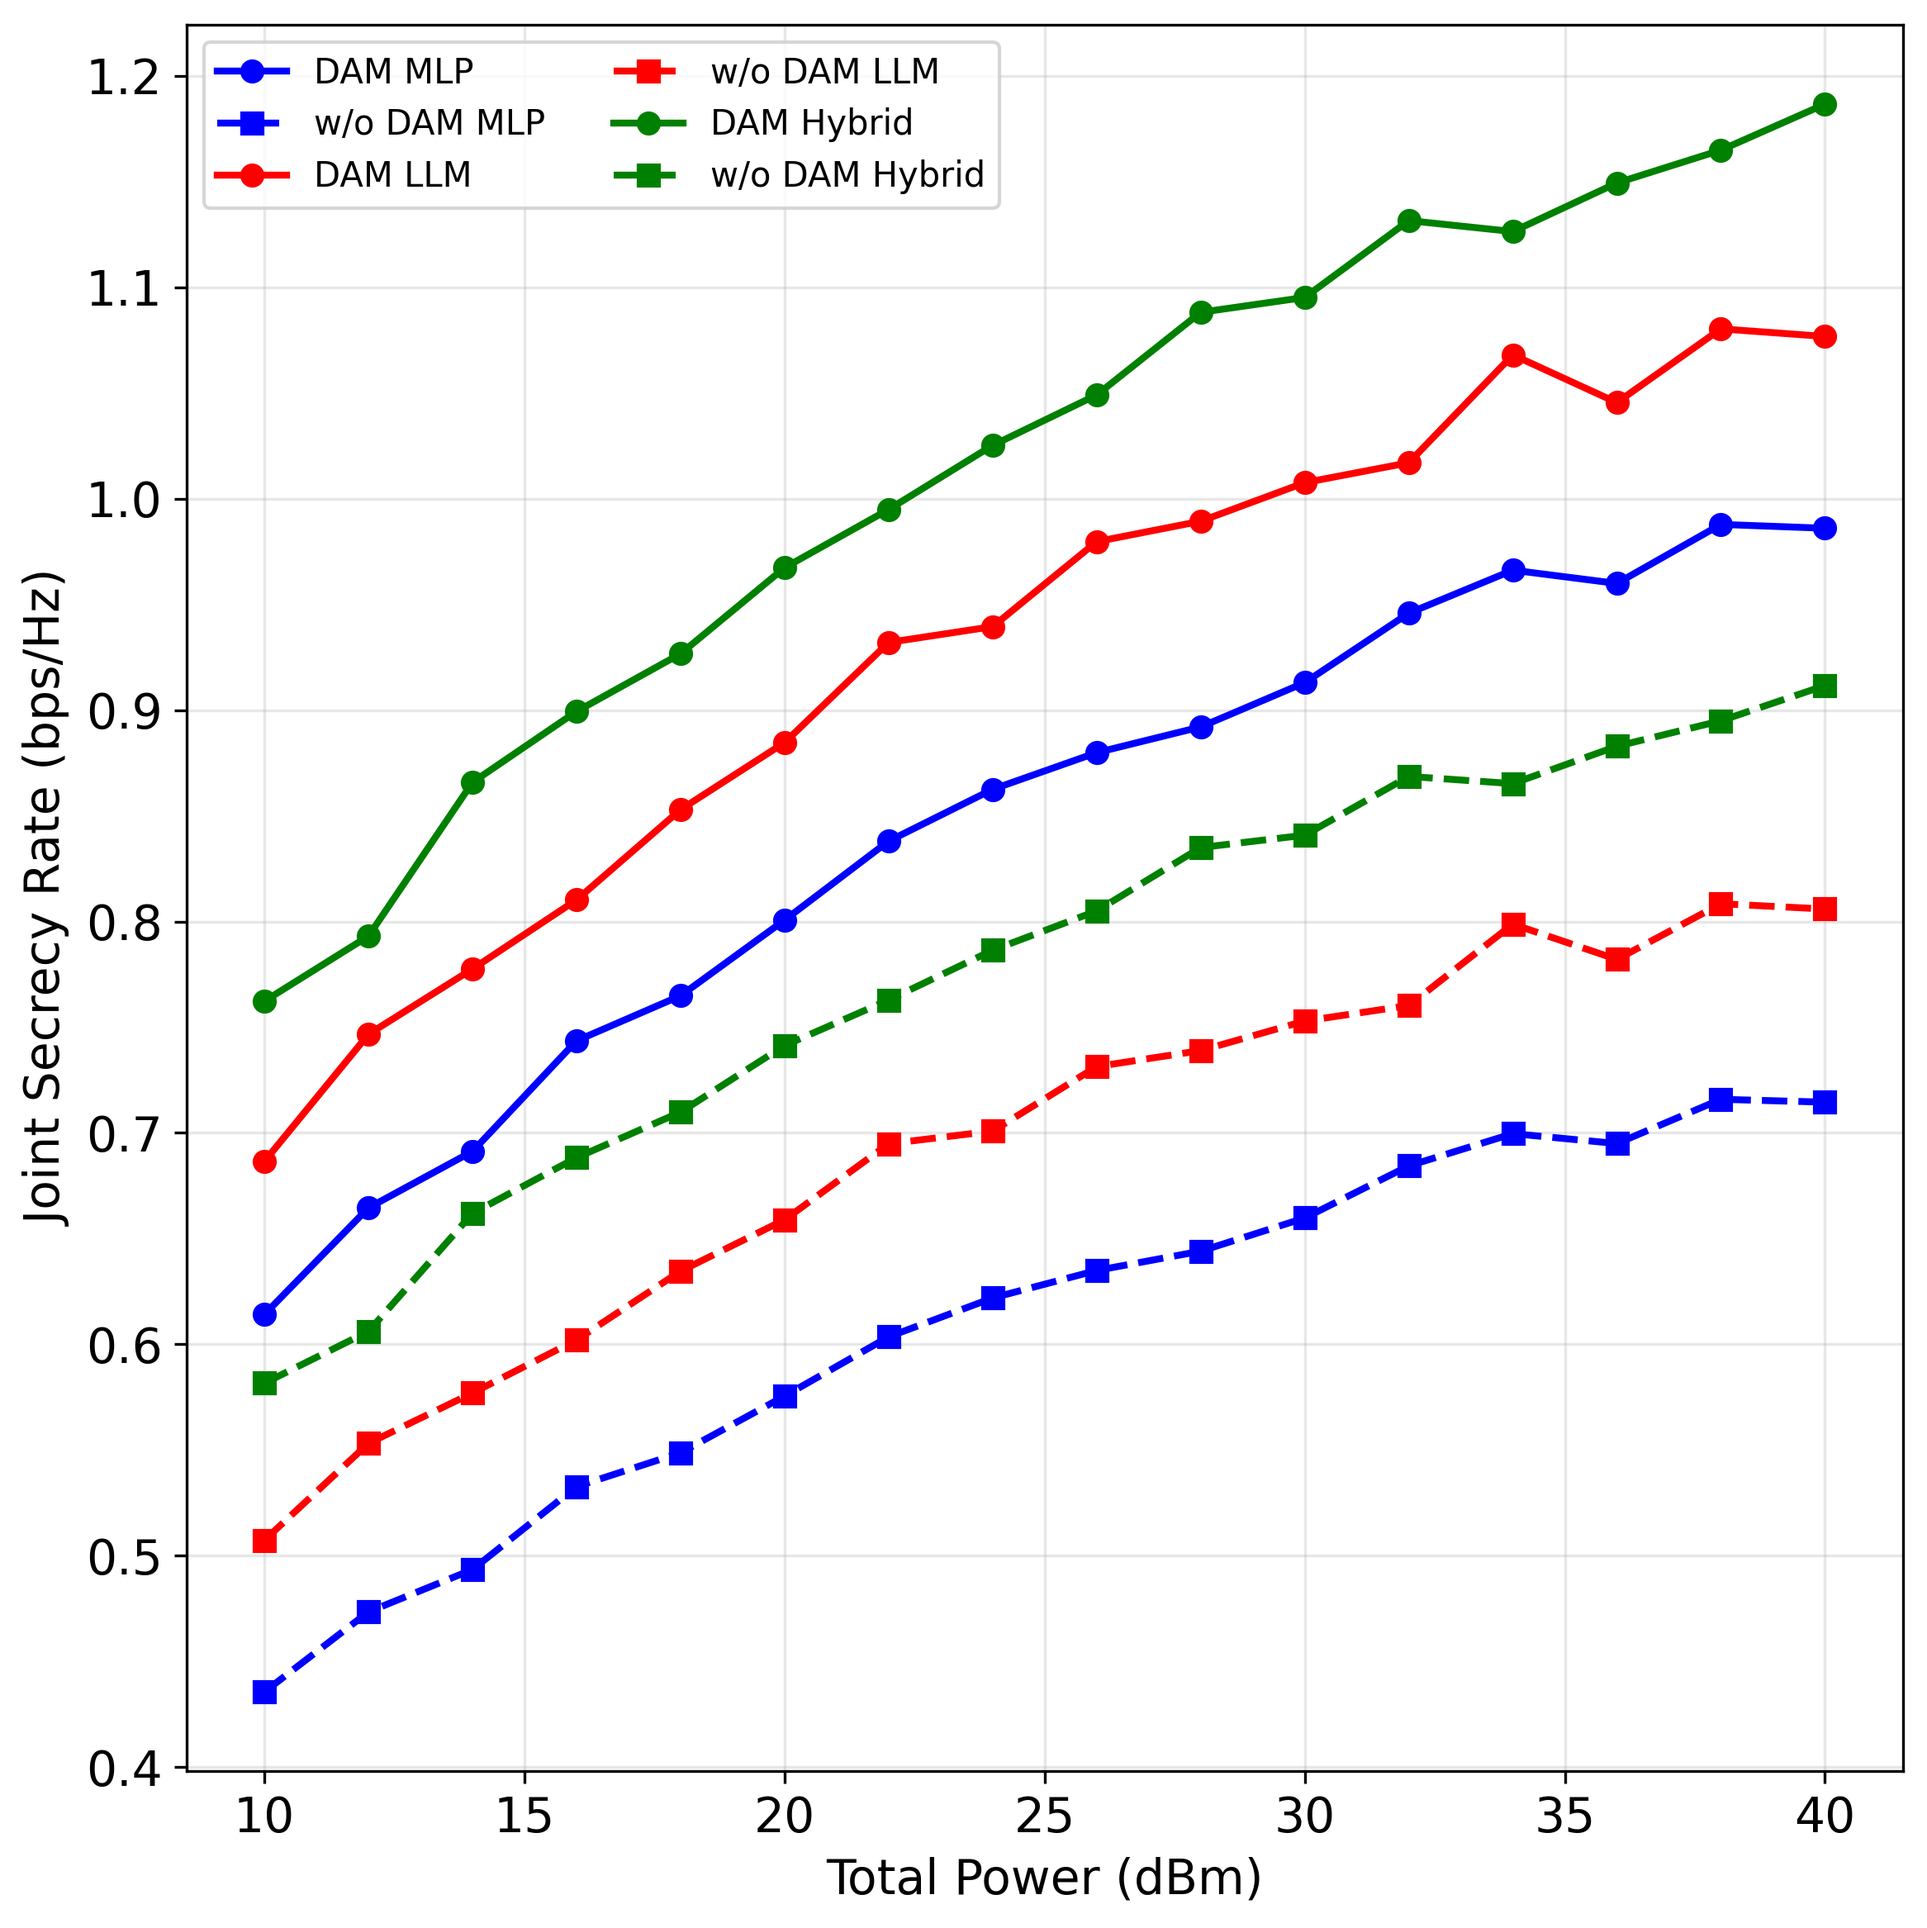
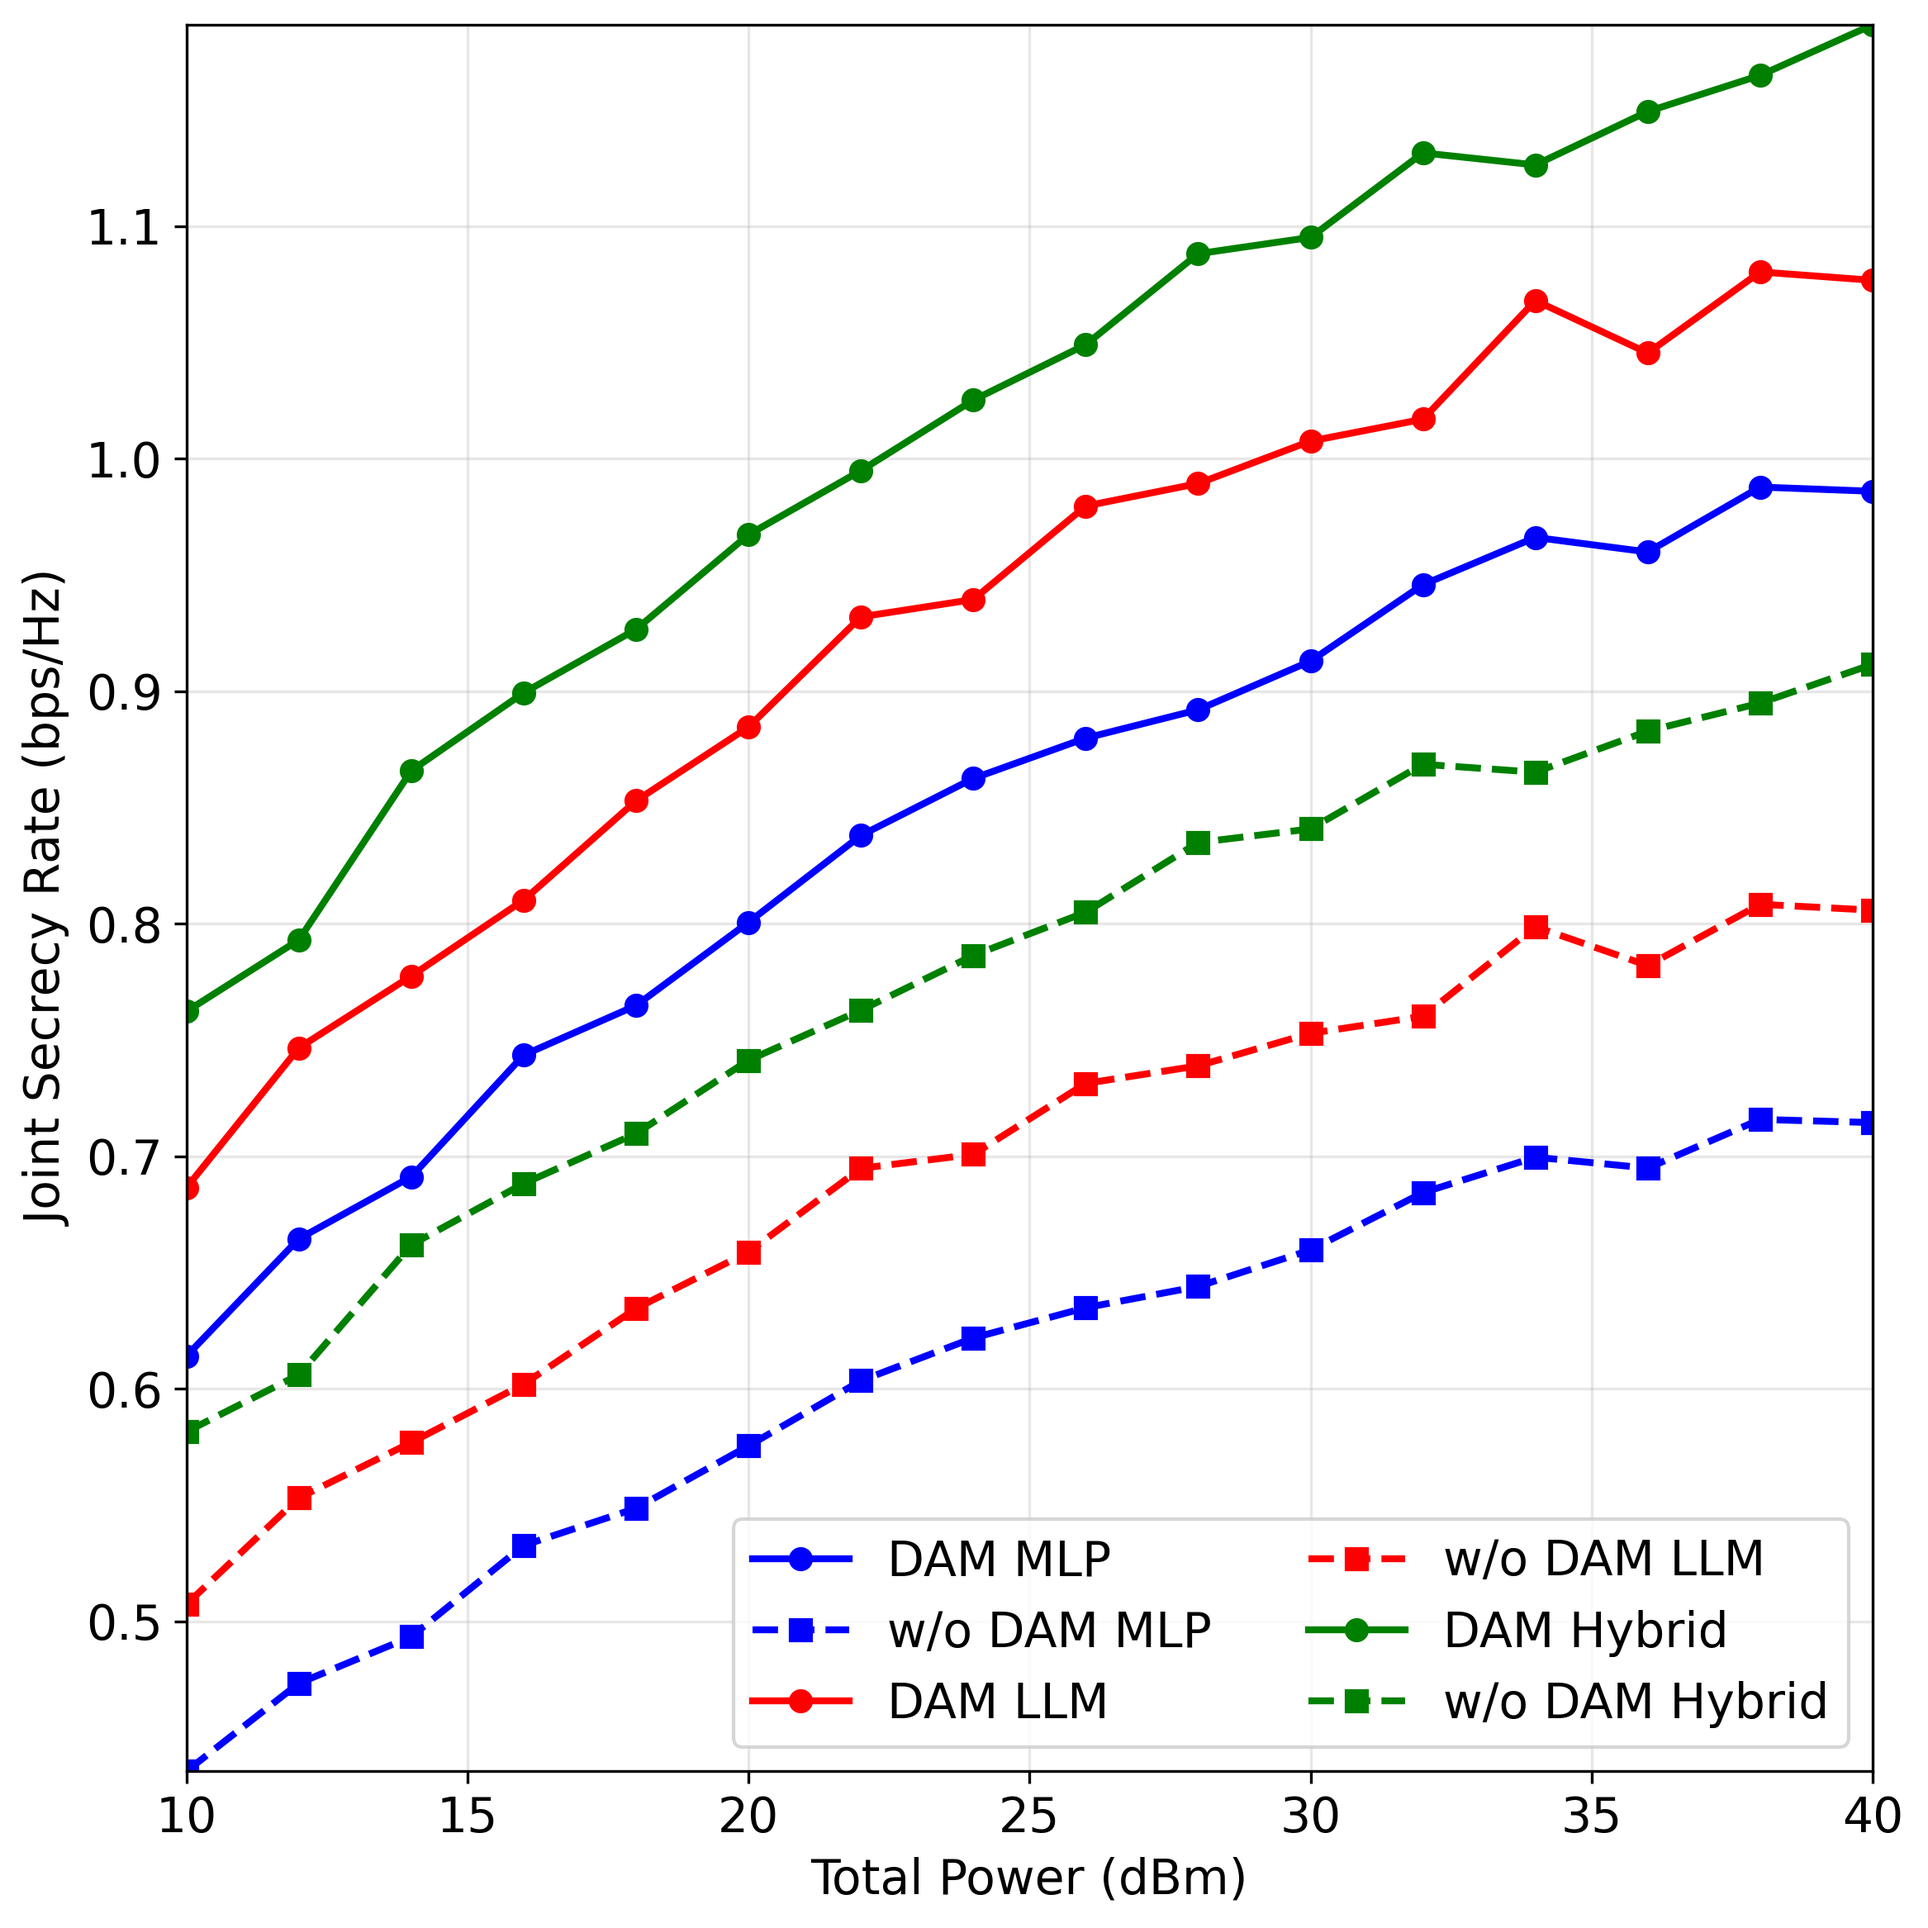
Plot styling: legends 14pt, axes flush (no padding), dual-axis sync no pad, square figs, rebuilt all figures

diff --git a/comprehensive_plots.py b/comprehensive_plots.py
@@ -87,16 +87,14 @@ def _set_stretched_ylim(ax, arrays, pad=0.05):
     ax.set_ylim(vmin - pad * rng, vmax + pad * rng)
 
 # New helper: synchronize dual y-axes to identical ranges
-def _sync_dual_ylim(ax_left, ax_right, arrays_left, arrays_right, pad=0.05):
+def _sync_dual_ylim(ax_left, ax_right, arrays_left, arrays_right, pad=0.0):  # pad default 0 for no gap
     vals = np.concatenate([np.asarray(a).ravel() for a in arrays_left + arrays_right if a is not None])
     vmin, vmax = np.min(vals), np.max(vals)
     if vmax <= vmin:
         return
-    rng = vmax - vmin
-    lo, hi = vmin - pad * rng, vmax + pad * rng
-    ax_left.set_ylim(lo, hi)
-    ax_right.set_ylim(lo, hi)
-    # Optional: align major ticks count
+    # No extra padding to satisfy "touch axes" requirement
+    ax_left.set_ylim(vmin, vmax)
+    ax_right.set_ylim(vmin, vmax)
     try:
         import matplotlib.ticker as mticker
         locator = mticker.MaxNLocator(nbins=6)
@@ -145,6 +143,13 @@ def plot_convergence_antennas_power():
     # Force exact x-axis limits - no padding
     ax = plt.gca()
     ax.set_xlim(ax.get_xlim()[0], ax.get_xlim()[1])
+    
+    # After plotting (Figure 1) enforce y limits flush
+    y_arrays = [mlp_dam, mlp_no_dam, llm_dam, llm_no_dam, hybrid_dam, hybrid_no_dam]
+    y_min = min(a.min() for a in y_arrays)
+    y_max = max(a.max() for a in y_arrays)
+    ax.set_ylim(y_min, y_max)
+    ax.margins(x=0, y=0)
     
     plt.tight_layout()
     plt.savefig(f"{plots_dir}/fig1_convergence_antennas_power.png", dpi=300, bbox_inches='tight')
@@ -207,24 +212,29 @@ def plot_rewards_vs_vus():
     ax_left.spines['left'].set_color(color_w0_axis)
     ax_right.spines['right'].set_color(color_w1_axis)
 
-    # Sync y-axes and declutter
+    # Sync y-axes and declutter (no padding)
     _sync_dual_ylim(
         ax_left,
         ax_right,
         [sensing['MLP'], sensing['LLM'], sensing['Hybrid']],
         [comm['MLP'], comm['LLM'], comm['Hybrid']],
-        pad=0.05,
+        pad=0.0,
     )
-    ax_left.set_xlim(vu_range[0], vu_range[-1])
 
-    ax_left.grid(True, alpha=0.3)
-    ax_left.spines['top'].set_visible(True)
-    ax_right.spines['top'].set_visible(True)
+    # Determine true x-span including offsets so lines touch axes
+    all_x = []
+    for alg in ['MLP', 'LLM', 'Hybrid']:
+        all_x.append((vu_range + offsets[alg])[0])
+        all_x.append((vu_range + offsets[alg])[-1])
+    x_min, x_max = min(all_x), max(all_x)
+    ax_left.set_xlim(x_min, x_max)
+    ax_left.margins(x=0, y=0)
+    ax_right.margins(x=0, y=0)
 
-    # Legend
+    # Legend fontsize 14
     lines_l, labels_l = ax_left.get_legend_handles_labels()
     lines_r, labels_r = ax_right.get_legend_handles_labels()
-    ax_left.legend(lines_l + lines_r, labels_l + labels_r, loc='upper right', fontsize=10, ncol=2)
+    ax_left.legend(lines_l + lines_r, labels_l + labels_r, loc='upper right', fontsize=14, ncol=2)
 
     # Force exact x-axis limits - no padding
     ax = plt.gca()
@@ -329,22 +339,21 @@ def plot_rewards_vs_targets():
         ax_right,
         [sensing['MLP'], sensing['LLM'], sensing['Hybrid']],
         [comm['MLP'], comm['LLM'], comm['Hybrid']],
-        pad=0.05,
+        pad=0.0,
     )
-    ax_left.set_xlim(targets[0], targets[-1])
+    all_x_t = []
+    for alg in ['MLP', 'LLM', 'Hybrid']:
+        all_x_t.append((targets + offsets[alg])[0])
+        all_x_t.append((targets + offsets[alg])[-1])
+    x_min_t, x_max_t = min(all_x_t), max(all_x_t)
+    ax_left.set_xlim(x_min_t, x_max_t)
+    ax_left.margins(x=0, y=0)
+    ax_right.margins(x=0, y=0)
 
-    ax_left.grid(True, alpha=0.3)
-    
-    # MATLAB-style appearance
-    ax_left.spines['top'].set_visible(True)
-    ax_left.spines['right'].set_visible(True)
-    ax_right.spines['top'].set_visible(True)
-    ax_right.spines['left'].set_visible(True)
-
-    # Combined legend
+    # Legend fontsize 14
     lines_l, labels_l = ax_left.get_legend_handles_labels()
     lines_r, labels_r = ax_right.get_legend_handles_labels()
-    ax_left.legend(lines_l + lines_r, labels_l + labels_r, loc='upper right', fontsize=9, ncol=2)
+    ax_left.legend(lines_l + lines_r, labels_l + labels_r, loc='upper right', fontsize=14, ncol=2)
 
     # Force exact x-axis limits - no padding
     ax = plt.gca()
@@ -386,7 +395,7 @@ def plot_secrecy_vs_ris_elements():
     plt.xlabel('Number of RIS Elements', fontsize=14)
     plt.ylabel('Joint Secrecy Rate (bps/Hz)', fontsize=14)
     # No title
-    plt.legend(fontsize=10, ncol=2)
+    plt.legend(fontsize=14, ncol=2)
     plt.grid(True, alpha=0.3)
     
     # MATLAB-style appearance
@@ -397,6 +406,14 @@ def plot_secrecy_vs_ris_elements():
     # Force exact x-axis limits - no padding
     ax = plt.gca()
     ax.set_xlim(ax.get_xlim()[0], ax.get_xlim()[1])
+    
+    # After plotting (Figure 4) enforce y limits flush
+    y_arrays4 = [mlp_with, llm_with, hybrid_with, mlp_without, llm_without, hybrid_without]
+    y_min4 = min(a.min() for a in y_arrays4)
+    y_max4 = max(a.max() for a in y_arrays4)
+    ax.set_ylim(y_min4, y_max4)
+    ax.set_xlim(ris_elements[0], ris_elements[-1])
+    ax.margins(x=0, y=0)
     
     plt.tight_layout()
     plt.savefig(f"{plots_dir}/fig4_secrecy_vs_ris_elements.png", dpi=300, bbox_inches='tight')
@@ -429,7 +446,7 @@ def plot_secrecy_vs_power():
 
     plt.xlabel('Total Power (dBm)', fontsize=14)
     plt.ylabel('Joint Secrecy Rate (bps/Hz)', fontsize=14)
-    plt.legend(fontsize=10, ncol=2)
+    plt.legend(fontsize=14, ncol=2)
     plt.grid(True, alpha=0.3)
     
     # MATLAB-style appearance
@@ -440,6 +457,14 @@ def plot_secrecy_vs_power():
     # Force exact x-axis limits - no padding
     ax = plt.gca()
     ax.set_xlim(ax.get_xlim()[0], ax.get_xlim()[1])
+    
+    # After plotting (Figure 5) enforce y limits flush
+    y_arrays5 = [secrecy_mlp_dam, secrecy_mlp_no, secrecy_llm_dam, secrecy_llm_no, secrecy_hyb_dam, secrecy_hyb_no]
+    y_min5 = min(a.min() for a in y_arrays5)
+    y_max5 = max(a.max() for a in y_arrays5)
+    ax.set_ylim(y_min5, y_max5)
+    ax.set_xlim(power_dbm[0], power_dbm[-1])
+    ax.margins(x=0, y=0)
     
     plt.tight_layout()
     plt.savefig(f"{plots_dir}/fig5_secrecy_vs_power.png", dpi=300, bbox_inches='tight')
@@ -471,7 +496,7 @@ def plot_secrecy_vs_beta():
 
     plt.xlabel('Beta (β)', fontsize=14)
     plt.ylabel('Joint Secrecy Rate (bps/Hz)', fontsize=14)
-    plt.legend(fontsize=10, ncol=2)
+    plt.legend(fontsize=14, ncol=2)
     plt.grid(True, alpha=0.3)
     
     # MATLAB-style appearance
@@ -483,6 +508,14 @@ def plot_secrecy_vs_beta():
     ax = plt.gca()
     ax.set_xlim(ax.get_xlim()[0], ax.get_xlim()[1])
     
+    # After plotting (Figure 6) enforce y limits flush
+    y_arrays6 = [secrecy_mlp_dam, secrecy_mlp_no, secrecy_llm_dam, secrecy_llm_no, secrecy_hyb_dam, secrecy_hyb_no]
+    y_min6 = min(a.min() for a in y_arrays6)
+    y_max6 = max(a.max() for a in y_arrays6)
+    ax.set_ylim(y_min6, y_max6)
+    ax.set_xlim(beta_range[0], beta_range[-1])
+    ax.margins(x=0, y=0)
+    
     plt.tight_layout()
     plt.savefig(f"{plots_dir}/fig6_secrecy_vs_beta.png", dpi=300, bbox_inches='tight')
     plt.close()
@@ -492,7 +525,7 @@ def plot_secrecy_vs_beta():
 def plot_secrecy_vs_bandwidth():
     print("Creating Figure 7: Secrecy Rate vs Bandwidth (VU=2 vs 10; add realism; 6 lines; no title)")
 
-    plt.figure(figsize=(12, 8))
+    plt.figure(figsize=(8, 8))
 
     bw = np.arange(100, 1001, 50)
 
@@ -512,7 +545,7 @@ def plot_secrecy_vs_bandwidth():
 
     plt.xlabel('Bandwidth (MHz)', fontsize=14)
     plt.ylabel('Joint Secrecy Rate (bps/Hz)', fontsize=14)
-    plt.legend(fontsize=10, ncol=2)
+    plt.legend(fontsize=14, ncol=2)
     plt.grid(True, alpha=0.3)
     
     # MATLAB-style appearance
@@ -523,6 +556,14 @@ def plot_secrecy_vs_bandwidth():
     # Force exact x-axis limits - no padding
     ax = plt.gca()
     ax.set_xlim(ax.get_xlim()[0], ax.get_xlim()[1])
+    
+    # After plotting (Figure 7) enforce y limits flush
+    y_arrays7 = [vu2_mlp, vu10_mlp, vu2_llm, vu10_llm, vu2_hyb, vu10_hyb]
+    y_min7 = min(a.min() for a in y_arrays7)
+    y_max7 = max(a.max() for a in y_arrays7)
+    ax.set_ylim(y_min7, y_max7)
+    ax.set_xlim(bw[0], bw[-1])
+    ax.margins(x=0, y=0)
     
     plt.tight_layout()
     plt.savefig(f"{plots_dir}/fig7_secrecy_vs_bandwidth.png", dpi=300, bbox_inches='tight')
@@ -554,7 +595,7 @@ def plot_secrecy_vs_antennas():
 
     plt.xlabel('Number of BS Antennas', fontsize=14)
     plt.ylabel('Joint Secrecy Rate (bps/Hz)', fontsize=14)
-    plt.legend(fontsize=10, ncol=2)
+    plt.legend(fontsize=14, ncol=2)
     plt.grid(True, alpha=0.3)
     
     # MATLAB-style appearance
@@ -565,6 +606,14 @@ def plot_secrecy_vs_antennas():
     # Force exact x-axis limits - no padding
     ax = plt.gca()
     ax.set_xlim(ax.get_xlim()[0], ax.get_xlim()[1])
+    
+    # After plotting (Figure 8) enforce y limits flush
+    y_arrays8 = [vu2_mlp, vu10_mlp, vu2_llm, vu10_llm, vu2_hyb, vu10_hyb]
+    y_min8 = min(a.min() for a in y_arrays8)
+    y_max8 = max(a.max() for a in y_arrays8)
+    ax.set_ylim(y_min8, y_max8)
+    ax.set_xlim(ants[0], ants[-1])
+    ax.margins(x=0, y=0)
     
     plt.tight_layout()
     plt.savefig(f"{plots_dir}/fig8_secrecy_vs_antennas.png", dpi=300, bbox_inches='tight')
@@ -602,6 +651,14 @@ def plot_secrecy_rate_convergence():
     # Force exact x-axis limits - no padding
     ax = plt.gca()
     ax.set_xlim(ax.get_xlim()[0], ax.get_xlim()[1])
+    
+    # After plotting (Main plot) enforce y limits flush
+    y_arraysM = [mlp_secrecy, llm_secrecy, hybrid_secrecy]
+    y_minM = min(a.min() for a in y_arraysM)
+    y_maxM = max(a.max() for a in y_arraysM)
+    ax.set_ylim(y_minM, y_maxM)
+    ax.set_xlim(episodes[0], episodes[-1])
+    ax.margins(x=0, y=0)
     
     plt.tight_layout()
     plt.savefig(f"{plots_dir}/main_secrecy_rate_convergence.png", dpi=300, bbox_inches='tight')
